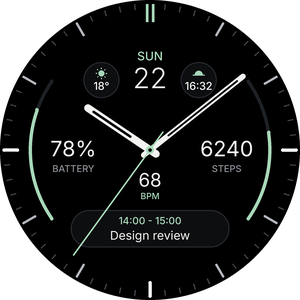
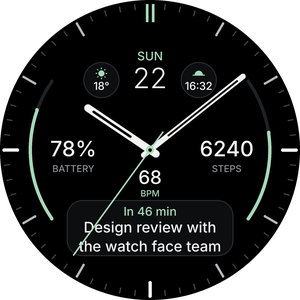
Larger two-line event text and medium weights for readability
- Event pill: time 18, title 22 with up to two lines, taller pill
- Battery, steps, heart-rate values and event text use MEDIUM weight

Claude-Session: https://claude.ai/code/session_0153GkUJgMbFYegMctzmUYaE

Changed region(s): [[0.21, 0.57, 0.78, 0.87], [0.66, 0.45, 0.84, 0.54], [0.18, 0.45, 0.33, 0.54]]

diff --git a/tools/generate.py b/tools/generate.py
@@ -39,6 +39,10 @@ ARC_THICK = 5
 BATT_START, BATT_SPAN = 235, 70    # left side, upward from bottom-left
 STEP_END, STEP_SPAN = 125, 70      # right side, upward from bottom-right
 
+# Bottom "next event" pill: time line + up to two lines of event title
+EV_W, EV_H, EV_Y, EV_RADIUS = 252, 86, 299, 24
+EV_TIME_SIZE, EV_TITLE_SIZE = 18, 22
+
 # Small circular complication slots (upper left / upper right of the date)
 SUB_D = 56                       # diameter
 SUB_R_POS, SUB_ANGLE = 128, 35   # placed at 360-35 deg (left) and 35 deg (right)
@@ -130,7 +134,8 @@ def full_draw(x: X, name: str) -> None:
 
 def text_part(x: X, name: str, px, py, w, h, size, color, content: str | None = None,
               template: tuple[str, list[str]] | None = None, weight="NORMAL",
-              align="CENTER", upper=False, ambient_alpha: int | None = None) -> None:
+              align="CENTER", upper=False, ambient_alpha: int | None = None,
+              max_lines: int = 1) -> None:
     # Device fonts (Google Sans / Japanese fonts) have a much taller line height than the
     # font size. If the box is shorter than one line the text is ellipsised or not drawn at
     # all, so grow every box vertically around its centre to at least TEXT_LINE x size.
@@ -142,7 +147,7 @@ def text_part(x: X, name: str, px, py, w, h, size, color, content: str | None = 
     x.open("PartText", name=name, x=px, y=py, width=w, height=h)
     if ambient_alpha is not None:
         x.leaf("Variant", mode="AMBIENT", target="alpha", value=ambient_alpha)
-    x.open("Text", align=align, ellipsis="TRUE", maxLines=1)
+    x.open("Text", align=align, ellipsis="TRUE", maxLines=max_lines)
     # IMPORTANT: Font is mixed content, so any whitespace/newlines around the text are
     # rendered on the device (they pushed text off-centre, ellipsised it, or blanked it).
     # Emit the whole Font element on a single line with no surrounding whitespace.
@@ -304,11 +309,11 @@ def build_xml() -> str:
     x.close("Default")
     x.close("Condition")
     text_part(x, "battery_value", 50, 204, 120, 38, 32, WHITE,
-              template=("%d%%", ["[BATTERY_PERCENT]"]), weight="NORMAL")
+              template=("%d%%", ["[BATTERY_PERCENT]"]), weight="MEDIUM")
 
     x.comment("Steps (right)")
     text_part(x, "steps_value", 280, 204, 120, 38, 32, WHITE,
-              template=("%d", ["[STEP_COUNT]"]), weight="NORMAL")
+              template=("%d", ["[STEP_COUNT]"]), weight="MEDIUM")
     text_part(x, "steps_label", 280, 244, 120, 18, 14, GREY, content="STEPS", weight="MEDIUM")
 
     x.comment("Heart rate (lower centre); shows a dash placeholder until a reading is available")
@@ -317,32 +322,32 @@ def build_xml() -> str:
     x.raw('<Expression name="hr">[HEART_RATE] &gt; 0</Expression>')
     x.close("Expressions")
     x.open("Compare", expression="hr")
-    text_part(x, "hr_value", 165, 254, 120, 32, 28, WHITE,
-              template=("%d", ["[HEART_RATE]"]), weight="NORMAL")
+    text_part(x, "hr_value", 165, 250, 120, 32, 28, WHITE,
+              template=("%d", ["[HEART_RATE]"]), weight="MEDIUM")
     x.close("Compare")
     x.open("Default")
-    text_part(x, "hr_value_none", 165, 254, 120, 32, 28, DIM, content="--", weight="NORMAL")
+    text_part(x, "hr_value_none", 165, 250, 120, 32, 28, DIM, content="--", weight="MEDIUM")
     x.close("Default")
     x.close("Condition")
-    text_part(x, "hr_label", 165, 286, 120, 16, 13, ACCENT, content="BPM", weight="MEDIUM")
+    text_part(x, "hr_label", 165, 282, 120, 16, 13, ACCENT, content="BPM", weight="MEDIUM")
     x.close("Group")
 
     # ---- Next event complication -------------------------------------------
     x.comment("Bottom: next calendar event (user can pick any SHORT_TEXT / LONG_TEXT provider)")
-    cw, ch = 240, 58
-    cx, cy = C - cw / 2, 314
+    cw, ch = EV_W, EV_H
+    cx, cy = C - cw / 2, EV_Y
     x.open("ComplicationSlot", slotId=0, name="next_event", displayName="@string/slot_bottom",
            x=cx, y=cy, width=cw, height=ch, supportedTypes="LONG_TEXT SHORT_TEXT EMPTY",
            isCustomizable="TRUE")
     x.leaf("DefaultProviderPolicy", defaultSystemProvider="NEXT_EVENT",
            defaultSystemProviderType="LONG_TEXT")
-    x.leaf("BoundingRoundBox", x=0, y=0, width=cw, height=ch, cornerRadius=ch / 2)
+    x.leaf("BoundingRoundBox", x=0, y=0, width=cw, height=ch, cornerRadius=EV_RADIUS)
     x.leaf("Variant", mode="AMBIENT", target="alpha", value=170)
 
     def pill() -> None:
         x.open("PartDraw", name="pill", x=0, y=0, width=cw, height=ch)
         x.open("RoundRectangle", x=1, y=1, width=cw - 2, height=ch - 2,
-               cornerRadiusX=(ch - 2) / 2, cornerRadiusY=(ch - 2) / 2)
+               cornerRadiusX=EV_RADIUS, cornerRadiusY=EV_RADIUS)
         x.leaf("Stroke", color="#FF2A2D32", thickness=1.5)
         x.leaf("Fill", color="#FF0D0E10")
         x.close("RoundRectangle")
@@ -350,16 +355,18 @@ def build_xml() -> str:
 
     x.open("Complication", type="LONG_TEXT")
     pill()
-    text_part(x, "event_time", 18, 7, cw - 36, 20, 15, ACCENT, template=("%s", ["[COMPLICATION.TITLE]"]),
-              weight="MEDIUM")
-    text_part(x, "event_title", 18, 27, cw - 36, 24, 18, WHITE, template=("%s", ["[COMPLICATION.TEXT]"]))
+    text_part(x, "event_time", 16, 6, cw - 32, 24, EV_TIME_SIZE, ACCENT,
+              template=("%s", ["[COMPLICATION.TITLE]"]), weight="MEDIUM")
+    text_part(x, "event_title", 16, 30, cw - 32, ch - 34, EV_TITLE_SIZE, WHITE,
+              template=("%s", ["[COMPLICATION.TEXT]"]), weight="MEDIUM", max_lines=2)
     x.close("Complication")
 
     x.open("Complication", type="SHORT_TEXT")
     pill()
-    text_part(x, "short_title", 18, 7, cw - 36, 20, 15, ACCENT, template=("%s", ["[COMPLICATION.TITLE]"]),
-              weight="MEDIUM")
-    text_part(x, "short_text", 18, 27, cw - 36, 24, 18, WHITE, template=("%s", ["[COMPLICATION.TEXT]"]))
+    text_part(x, "short_title", 16, 6, cw - 32, 24, EV_TIME_SIZE, ACCENT,
+              template=("%s", ["[COMPLICATION.TITLE]"]), weight="MEDIUM")
+    text_part(x, "short_text", 16, 30, cw - 32, ch - 34, EV_TITLE_SIZE, WHITE,
+              template=("%s", ["[COMPLICATION.TEXT]"]), weight="MEDIUM", max_lines=2)
     x.close("Complication")
 
     x.open("Complication", type="EMPTY")
@@ -487,7 +494,7 @@ def render_preview(path: pathlib.Path, theme_idx=0, ambient=False, scale_out=1.0
     from PIL import Image, ImageDraw, ImageFont
 
     data = data or dict(weekday="SUN", day=22, batt=78, steps=6240, step_pct=62, hr=68,
-                        ev_time="14:00 - 15:00", ev_title="Design review",
+                        ev_time="In 46 min", ev_title="Design review with the watch face team",
                         left=("sun", "18°"), right=("sunset", "16:32"))
     S = 4  # supersampling
     W = SIZE * S
@@ -556,29 +563,43 @@ def render_preview(path: pathlib.Path, theme_idx=0, ambient=False, scale_out=1.0
              col(LOW if data["batt"] <= 15 else acc))
         arcp(STEP_END - STEP_SPAN * min(data["step_pct"], 100) / 100, STEP_END, col(acc))
 
-        text(f'{data["batt"]}%', (50, 204, 120, 38), 32, col(WHITE))
+        text(f'{data["batt"]}%', (50, 204, 120, 38), 32, col(WHITE), "Medium")
         text("BATTERY", (50, 244, 120, 18), 14, col(GREY), "Medium")
-        text(str(data["steps"]), (280, 204, 120, 38), 32, col(WHITE))
+        text(str(data["steps"]), (280, 204, 120, 38), 32, col(WHITE), "Medium")
         text("STEPS", (280, 244, 120, 18), 14, col(GREY), "Medium")
-        text(str(data["hr"]), (165, 254, 120, 32), 28, col(WHITE))
-        text("BPM", (165, 286, 120, 16), 13, col(acc), "Medium")
+        text(str(data["hr"]), (165, 250, 120, 32), 28, col(WHITE), "Medium")
+        text("BPM", (165, 282, 120, 16), 13, col(acc), "Medium")
 
     da = 200 / 255 if ambient else 1
     text(data["weekday"], (145, 72, 160, 24), 18, col(acc, da), "Medium")
     text(str(data["day"]), (145, 94, 160, 46), 42, col(WHITE, da), "Light")
 
     # complication
-    cw, ch = 240, 58
-    cx, cy = C - cw / 2, 314
+    cw, ch = EV_W, EV_H
+    cx, cy = C - cw / 2, EV_Y
     ca = 170 / 255 if ambient else 1
     layer = Image.new("RGBA", img.size, (0, 0, 0, 0))
     ld = ImageDraw.Draw(layer)
-    ld.rounded_rectangle([P(cx + 1), P(cy + 1), P(cx + cw - 1), P(cy + ch - 1)], radius=P((ch - 2) / 2),
+    ld.rounded_rectangle([P(cx + 1), P(cy + 1), P(cx + cw - 1), P(cy + ch - 1)], radius=P(EV_RADIUS),
                          fill=col("#FF0D0E10", ca), outline=col("#FF2A2D32", ca), width=int(1.5 * S))
     img.alpha_composite(layer)
     d = ImageDraw.Draw(img)
-    text(data["ev_time"], (cx + 18, cy + 7, cw - 36, 20), 15, col(acc, ca), "Medium")
-    text(data["ev_title"], (cx + 18, cy + 27, cw - 36, 24), 18, col(WHITE, ca))
+    text(data["ev_time"], (cx + 16, cy + 6, cw - 32, 24), EV_TIME_SIZE, col(acc, ca), "Medium")
+    fnt = font(EV_TITLE_SIZE, "Medium")
+    words, lines, cur = data["ev_title"].split(), [], ""
+    for w_ in words:
+        trial = (cur + " " + w_).strip()
+        if d.textlength(trial, font=fnt) > P(cw - 32) and cur:
+            lines.append(cur)
+            cur = w_
+        else:
+            cur = trial
+    lines.append(cur)
+    lines = lines[:2]
+    lh = EV_TITLE_SIZE * 1.3
+    top = cy + 30 + (ch - 34 - lh * len(lines)) / 2
+    for i, ln in enumerate(lines):
+        text(ln, (cx + 16, top + i * lh, cw - 32, lh), EV_TITLE_SIZE, col(WHITE, ca), "Medium")
 
     # small circular slots
     if not ambient:
